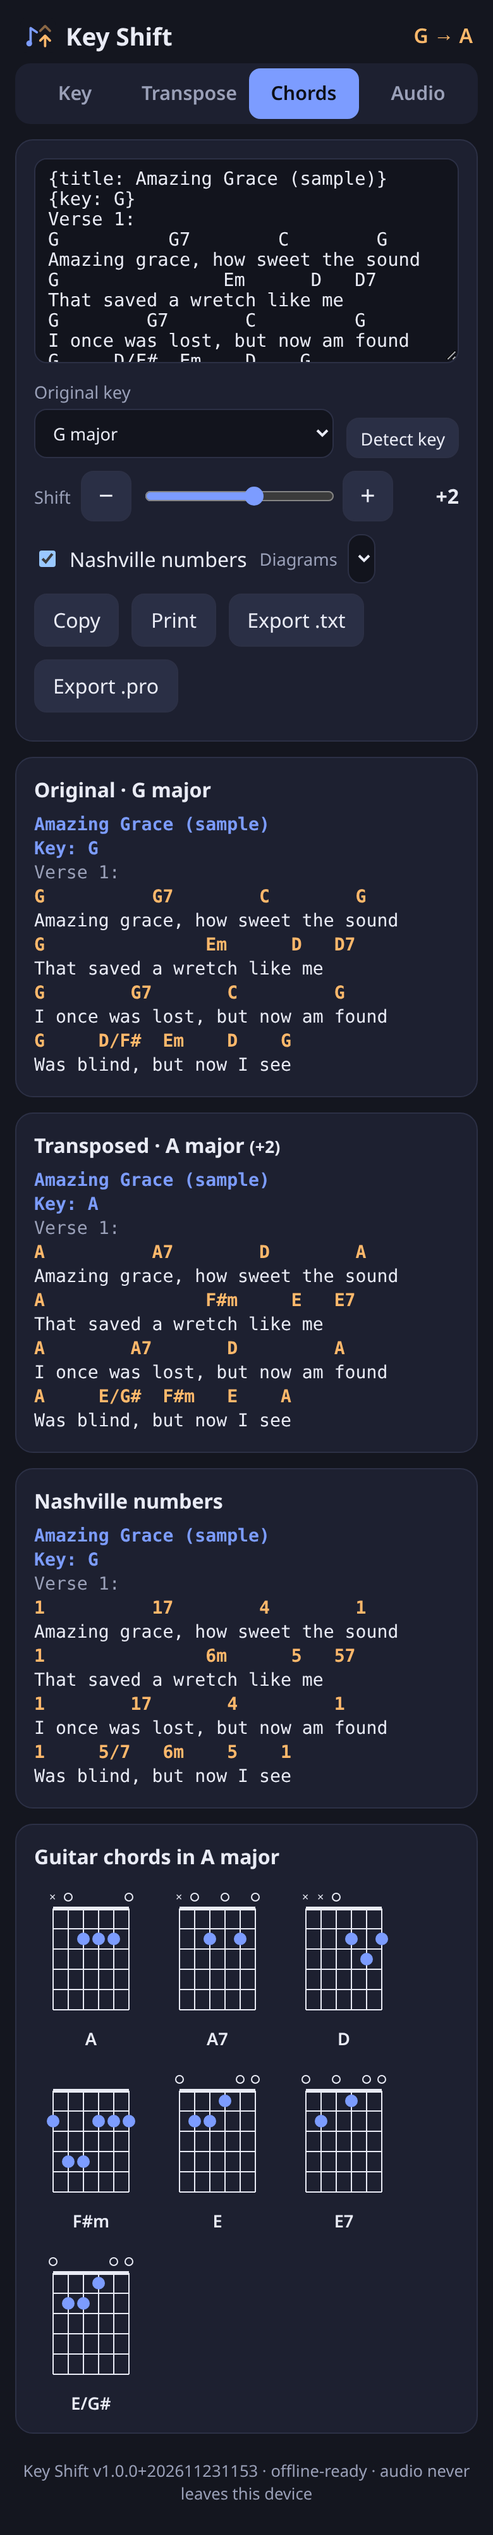
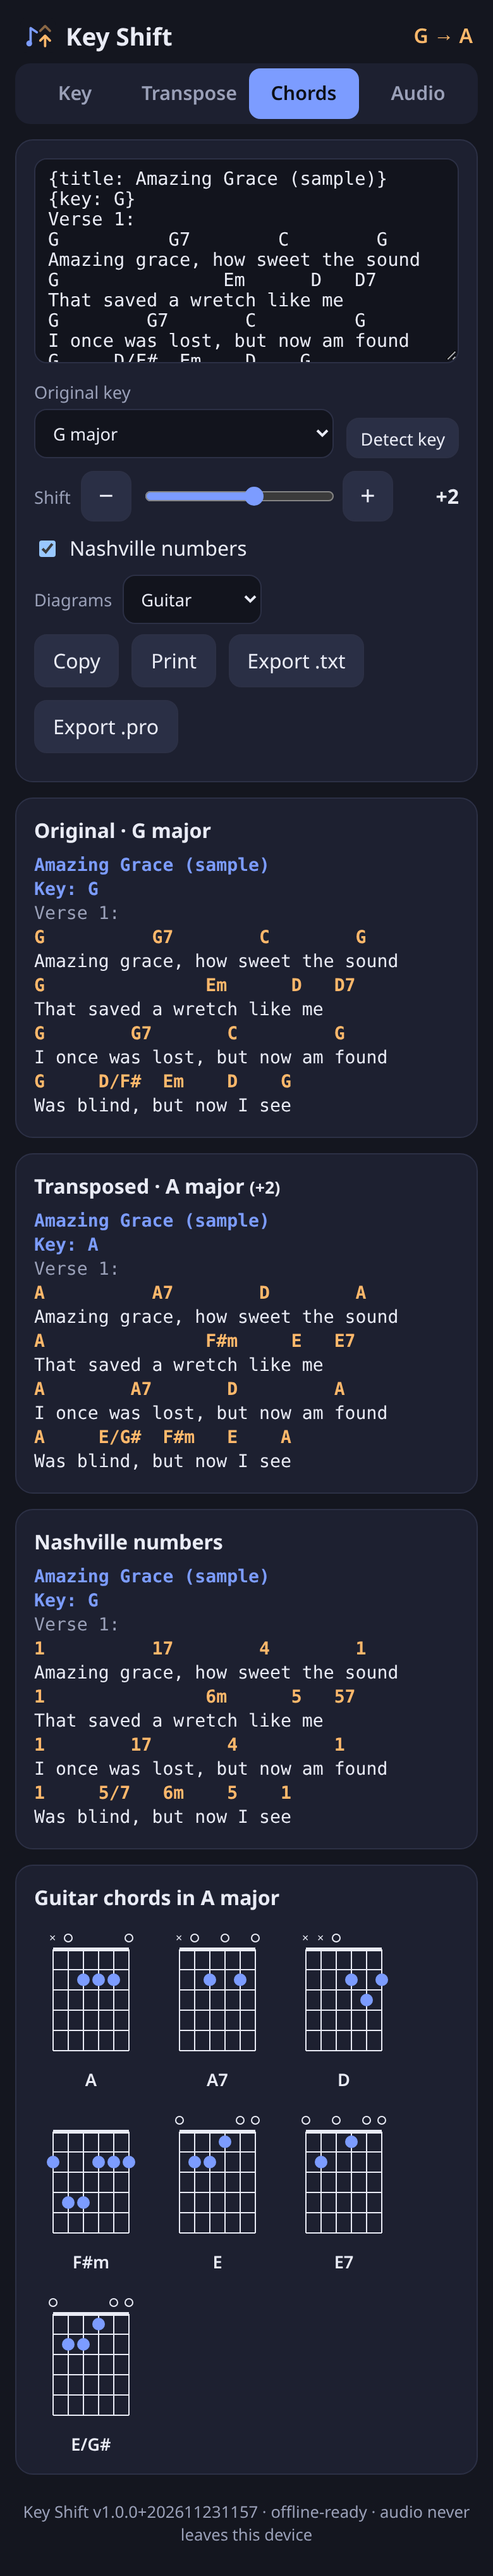
Release packaging, server scripts (py/node/ps1/command/bat), README, LICENSES, offline test, real MP3 check

diff --git a/e2e/real-mp3.spec.ts b/e2e/real-mp3.spec.ts
@@ -1,0 +1,30 @@
+import { test, expect } from '@playwright/test';
+import { existsSync, statSync } from 'node:fs';
+
+// Manual check with a real MP3: Erik Satie "Gymnopédie No. 1" performed by Kevin MacLeod (incompetech.com, CC BY 4.0).
+const MP3 = 'manual/gymnopedie1.mp3';
+test.skip(!existsSync(MP3), 'real MP3 not downloaded');
+
+test('real MP3: detect key, render +2, verify, export MP3', async ({ page }, info) => {
+  test.skip(info.project.name !== 'desktop-1366x900', 'run once');
+  test.setTimeout(600000);
+  await page.goto('./');
+  await page.getByTestId('tab-audio').click();
+  await page.getByTestId('audio-file').setInputFiles(MP3);
+  await expect(page.getByTestId('render')).toBeEnabled({ timeout: 120000 });
+  const t0 = Date.now();
+  await page.getByTestId('render').click();
+  await expect(page.getByTestId('verify')).toBeVisible({ timeout: 540000 });
+  const secs = (Date.now() - t0) / 1000;
+  const verdict = await page.getByTestId('verify').innerText();
+  const before = await page.locator('[data-testid=key-results]').nth(0).innerText();
+  const after = await page.locator('[data-testid=key-results]').nth(1).innerText();
+  console.log(`RENDER+VERIFY ${secs.toFixed(1)}s\nBEFORE:\n${before}\nAFTER:\n${after}\nVERDICT: ${verdict}`);
+  await page.screenshot({ path: 'screenshots/real-mp3-gymnopedie.png', fullPage: true });
+  const dl = page.waitForEvent('download');
+  await page.getByTestId('export-mp3').click();
+  const d = await dl;
+  await d.saveAs('manual/gymnopedie1-plus2.mp3');
+  console.log('EXPORT', d.suggestedFilename(), statSync('manual/gymnopedie1-plus2.mp3').size);
+  expect(verdict).toMatch(/^[✓≈]/);
+});

diff --git a/e2e/smoke.spec.ts b/e2e/smoke.spec.ts
@@ -67,3 +67,15 @@ test('app loads, shows version, all tabs work, audio round-trip', async ({ page 
   expect(sw).toBe(true);
   expect(errors.filter((e) => !/favicon|AudioContext was not allowed/.test(e))).toEqual([]);
 });
+
+test('works offline after first visit (service worker)', async ({ page, context }) => {
+  await page.goto('./');
+  await page.evaluate(() => navigator.serviceWorker.ready);
+  await page.reload();
+  await context.setOffline(true);
+  await page.reload();
+  await expect(page.getByTestId('version')).toContainText('Key Shift v');
+  await page.getByTestId('tab-chords').click();
+  await expect(page.getByTestId('transposed')).toContainText('Amazing grace');
+  await context.setOffline(false);
+});

diff --git a/src/app.css b/src/app.css
@@ -28,7 +28,8 @@ input[type=file] { width: 100%; }
 .row { display: flex; gap: 10px; align-items: flex-end; margin: 8px 0; }
 .row.wrap { flex-wrap: wrap; align-items: center; }
 .field { display: grid; gap: 4px; font-size: .85rem; color: var(--muted); flex: 1; min-width: 0; }
-.field.inline { display: flex; align-items: center; gap: 8px; flex: 0; }
+.field.inline { display: flex; align-items: center; gap: 8px; flex: none; }
+.field.inline select { min-width: 110px; }
 .check { display: flex; gap: 8px; align-items: center; }
 .shift { display: grid; grid-template-columns: auto 40px 1fr 40px 44px; gap: 8px; align-items: center; margin: 10px 0; }
 .shift .lbl { color: var(--muted); font-size: .85rem; }

diff --git a/serve/serve.py b/serve/serve.py
@@ -1,0 +1,19 @@
+#!/usr/bin/env python3
+"""Key Shift local server: serves this folder on http://localhost:8765 (local only)."""
+import http.server, socketserver, os, sys, webbrowser, functools
+PORT = int(sys.argv[1]) if len(sys.argv) > 1 else 8765
+ROOT = os.path.dirname(os.path.abspath(__file__))
+class H(http.server.SimpleHTTPRequestHandler):
+    extensions_map = {**http.server.SimpleHTTPRequestHandler.extensions_map, '.wasm': 'application/wasm', '.js': 'text/javascript', '.webmanifest': 'application/manifest+json'}
+    def end_headers(self):
+        self.send_header('Cache-Control', 'no-cache')
+        super().end_headers()
+Handler = functools.partial(H, directory=ROOT)
+class Server(socketserver.ThreadingMixIn, http.server.HTTPServer):
+    daemon_threads = True
+with Server(('127.0.0.1', PORT), Handler) as httpd:
+    url = f'http://localhost:{PORT}/'
+    print(f'Key Shift running at {url}  (Ctrl+C to stop)')
+    try: webbrowser.open(url)
+    except Exception: pass
+    httpd.serve_forever()

diff --git a/README.md b/README.md
@@ -1,47 +1,58 @@
-# Svelte + TS + Vite
+# Key Shift
 
-This template should help get you started developing with Svelte and TypeScript in Vite.
+Key detection, transposing, chord sheets and audio pitch-shifting in one installable web app (PWA).
+Local-first: no server, no account, and **audio never leaves your device**. Works offline after the first visit.
 
-## Recommended IDE Setup
+## Features
 
-[VS Code](https://code.visualstudio.com/) + [Svelte](https://marketplace.visualstudio.com/items?itemName=svelte.svelte-vscode).
+1. **Key**: drop an MP3/WAV/M4A to get the top 3 keys with confidence, major/minor and the relative key
+   (Essentia.js KeyExtractor; falls back to Meyda chroma + Krumhansl-Schmuckler/Temperley profiles).
+   Or paste a chord sheet and it scores the chords against all 24 keys.
+2. **Transpose**: pick a target key or shift −12…+12. Shows the interval, the 3 easiest capo options (0–7) for the
+   chords in your sheet, and a vocal-range hint (enter the song's lowest/highest note to see the new range).
+   Spelling follows the target key (flats for F, Bb, Eb, Ab, Db, Gb and their relative minors, sharps otherwise).
+3. **Chords**: paste chords-over-lyrics or ChordPro (extensions like m7, maj7, sus4, add9, dim, aug, 7b9 and slash chords
+   like D/F#). Original and transposed side by side with lyrics kept aligned, optional Nashville numbers, guitar or piano
+   diagrams, Copy, Print (prints just the transposed sheet), Export .txt / .pro.
+4. **Audio**: upload a song, shift it n semitones with the tempo unchanged (Rubber Band, in a Web Worker), with live
+   preview (SoundTouch AudioWorklet), waveform, play/pause, A/B original vs shifted and a progress bar. Export WAV or MP3,
+   and it re-detects the key of the result to confirm it moved by n.
 
-## Need an official Svelte framework?
+## Run it (from the release zip)
 
-Check out [SvelteKit](https://github.com/sveltejs/kit#readme), which is also powered by Vite. Deploy anywhere with its serverless-first approach and adapt to various platforms, with out of the box support for TypeScript, SCSS, and Less, and easily-added support for mdsvex, GraphQL, PostCSS, Tailwind CSS, and more.
+Unzip `KeyShift.zip`, open the `KeyShift` folder, then:
 
-## Technical considerations
+- **Mac**: double-click `serve.command`. The first time, macOS may block it: right-click → Open → Open.
+  Uses Python 3 (if the Xcode command line tools are present), Node or the built-in Ruby, whichever it finds.
+- **Windows**: double-click `serve.bat`. Uses Python (`py`), Node, or built-in PowerShell as a last resort, so nothing needs installing.
+- **Anything else**: `python3 serve.py` or `node serve.mjs` in the folder.
 
-**Why use this over SvelteKit?**
+Your browser opens at <http://localhost:8765/>. To install it as an app: Chrome/Edge → install icon in the address bar;
+Safari on Mac → File → Add to Dock. Once loaded, it works offline.
 
-- It brings its own routing solution which might not be preferable for some users.
-- It is first and foremost a framework that just happens to use Vite under the hood, not a Vite app.
+**Phone**: a phone can't reach `localhost` on your computer. Either host the folder on any static host with HTTPS
+(for example GitHub Pages, as with the worship app) and "Add to Home Screen", or open it from the computer's LAN address
+(installing as an app on a phone needs HTTPS).
 
-This template contains as little as possible to get started with Vite + TypeScript + Svelte, while taking into account the developer experience with regards to HMR and intellisense. It demonstrates capabilities on par with the other `create-vite` templates and is a good starting point for beginners dipping their toes into a Vite + Svelte project.
+Opening `index.html` directly (file://) won't work: browsers block workers and wasm from file:// pages. Use a server script.
 
-Should you later need the extended capabilities and extensibility provided by SvelteKit, the template has been structured similarly to SvelteKit so that it is easy to migrate.
+## Develop
 
-**Why `global.d.ts` instead of `compilerOptions.types` inside `jsconfig.json` or `tsconfig.json`?**
-
-Setting `compilerOptions.types` shuts out all other types not explicitly listed in the configuration. Using triple-slash references keeps the default TypeScript setting of accepting type information from the entire workspace, while also adding `svelte` and `vite/client` type information.
-
-**Why include `.vscode/extensions.json`?**
-
-Other templates indirectly recommend extensions via the README, but this file allows VS Code to prompt the user to install the recommended extension upon opening the project.
-
-**Why enable `allowJs` in the TS template?**
-
-While `allowJs: false` would indeed prevent the use of `.js` files in the project, it does not prevent the use of JavaScript syntax in `.svelte` files. In addition, it would force `checkJs: false`, bringing the worst of both worlds: not being able to guarantee the entire codebase is TypeScript, and also having worse typechecking for the existing JavaScript. In addition, there are valid use cases in which a mixed codebase may be relevant.
-
-**Why is HMR not preserving my local component state?**
-
-HMR state preservation comes with a number of gotchas! It has been disabled by default in both `svelte-hmr` and `@sveltejs/vite-plugin-svelte` due to its often surprising behavior. You can read the details [here](https://github.com/rixo/svelte-hmr#svelte-hmr).
-
-If you have state that's important to retain within a component, consider creating an external store which would not be replaced by HMR.
-
-```ts
-// store.ts
-// An extremely simple external store
-import { writable } from 'svelte/store'
-export default writable(0)
+```bash
+npm install
+npm run dev          # http://localhost:5173
+npm test             # Vitest unit + audio tests (Node)
+npm run test:e2e     # build + Playwright smoke at 390x844 and desktop
+npm run release      # build + release/KeyShift.zip
 ```
+
+Layout: `src/theory` (pure TypeScript music logic, no UI dependencies), `src/audio` (key detection, Rubber Band,
+encoders; shared by workers and tests), `src/workers` (Web Workers), `src/lib` (Svelte UI), `src/sw-template.js`
+(service worker: network-first for pages so fixes always show, cache-first for hashed assets). The version label is in the footer.
+
+## Notes and limits
+
+- The browser decodes audio at the device's audio rate (often 48 kHz), so exports use that rate.
+- Very long files (over ~10 minutes) need several hundred MB of memory while rendering.
+- Detecting the relative major/minor instead of the exact key happens on ambiguous songs; the top 3 list shows both.
+- Licenses: see LICENSES.md (Essentia is AGPL, Rubber Band GPL: fine for personal use).

diff --git a/LICENSES.md b/LICENSES.md
@@ -1,0 +1,28 @@
+# Third-party licenses
+
+Key Shift bundles the libraries below into the built app. Everything runs locally in your browser.
+
+| Library | Version | License | Used for |
+|---|---|---|---|
+| [Essentia.js](https://github.com/MTG/essentia.js) (Essentia, MTG-UPF) | 0.1.3 | **AGPL-3.0** | Audio key detection (KeyExtractor, wasm) |
+| [Rubber Band Library](https://breakfastquay.com/rubberband/) via [rubberband-wasm](https://github.com/Daninet/rubberband-wasm) | 3.3.0 | **GPL-2.0** (Rubber Band: GPL-2.0-or-later) | Offline, high-quality pitch shift with tempo kept |
+| [SoundTouchJS](https://github.com/cutterbl/SoundTouchJS) (@soundtouchjs/audio-worklet, @soundtouchjs/core) | 2.1.1 | MPL-2.0 | Live pitch preview (AudioWorklet) |
+| [lamejs](https://github.com/zhuker/lamejs) (@breezystack/lamejs ESM build) | 1.2.7 | LGPL-3.0 | MP3 export |
+| [Meyda](https://github.com/meyda/meyda) (+ fftjs, dct) | 5.6.3 | MIT | Chroma features for the fallback key detector |
+| [Svelte](https://svelte.dev) | 5.x | MIT | UI |
+| [Vite](https://vite.dev), Vitest, Playwright | dev only | MIT / Apache-2.0 | Build and tests (not shipped) |
+
+## Note on AGPL / GPL
+
+Essentia (AGPL-3.0) and Rubber Band (GPL-2.0) are copyleft. That is **fine for personal and
+private use** (Brandon's devices, the church team). If Key Shift is ever distributed or offered
+publicly as a service, the complete source (this repository) must be made available under a
+compatible license, or commercial licenses bought (Rubber Band and Essentia both sell them).
+
+Key Shift's own code: © 2026 Brandon. Personal use.
+
+## Music used for testing
+
+"Gymnopédie No. 1" (Erik Satie, public domain composition), performance by Kevin MacLeod
+(incompetech.com), licensed under Creative Commons: By Attribution 4.0. Used only for a local
+manual test; not bundled in the app.
